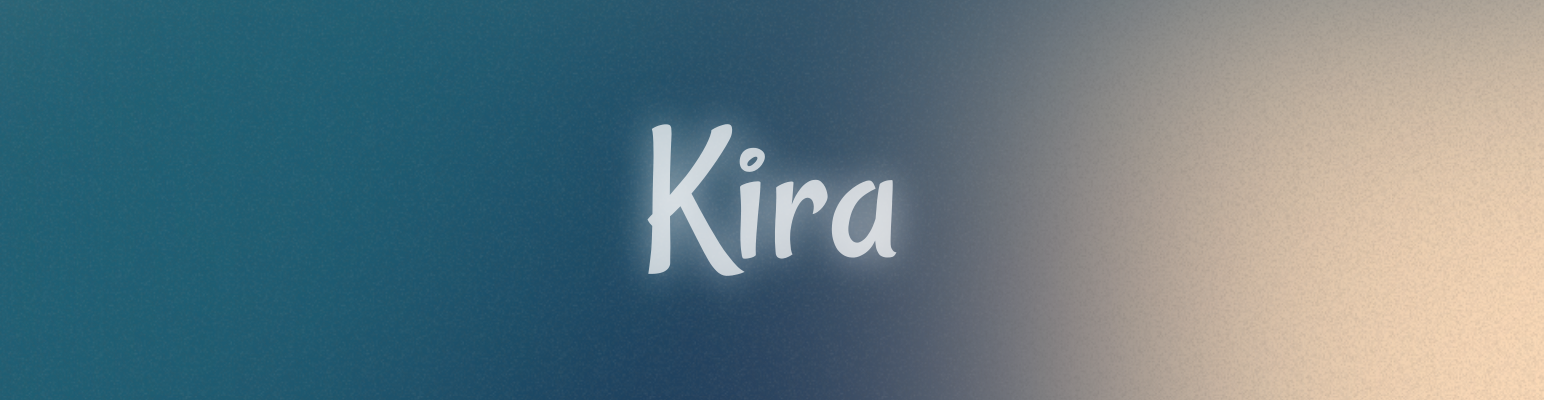
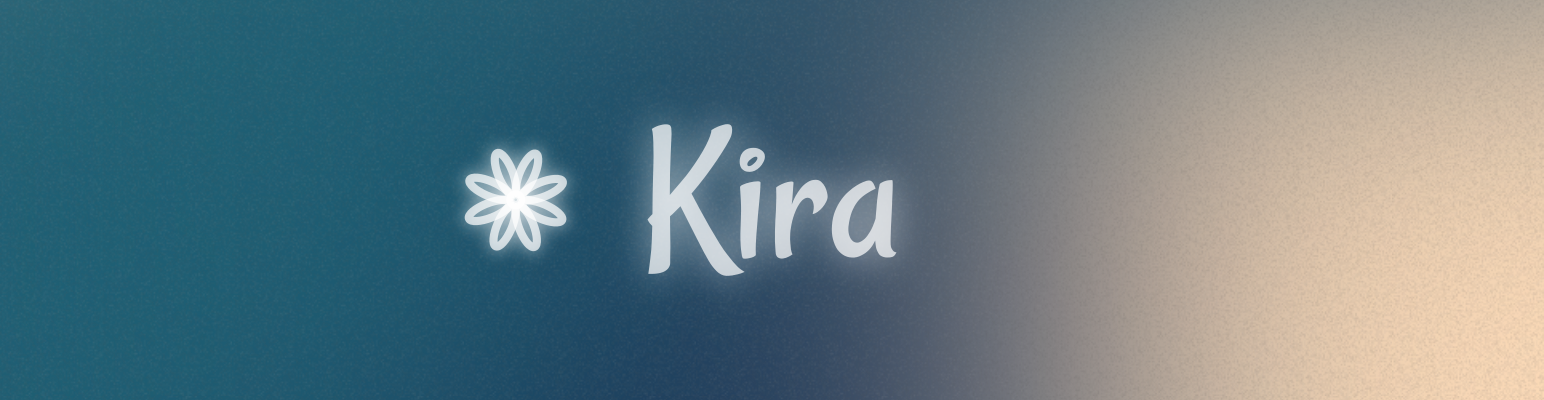
update the readme with more organized chores list and also a new header image for it as well :)

Changed region(s): [[0.2798, 0.36, 0.3731, 0.63]]

diff --git a/src/main/kotlin/net/exoad/kira/utils/XMLASTBuilder.kt b/src/main/kotlin/net/exoad/kira/utils/XMLASTBuilder.kt
@@ -1,0 +1,5 @@
+package net.exoad.kira.utils
+
+object XMLASTBuilder
+{
+}

diff --git a/README.md b/README.md
@@ -49,27 +49,30 @@ Check back later! More stuffs will come and go :)
 
 ## Chores
 
-### Frontend
+### Language Features
 
-Chores relating to anything to do with parsing, lexing, and static analysis.
+Chores relating to anything to do with the upfront semantics and syntax of the language
 
 - [ ] Parser evaluates escaped string characters
-- [ ] Interpolation in strings without using "+"
+
+- [ ] Interpolation in strings without using `+`
+
 - [ ] **In Triage** For Loop
+
+### Internal Workings
+
+Chores relating to anything that involves the internal workings
+
 - [ ] Static Analyzer for validating the state of the AST
+
 - [ ] Support for outputting the AST as an XML document so there is not a necessary usage of another parser to parse the
   formatting
 
-### Backend
-
-Chores relating to anything that takes a valid AST and transpiles it into another medium like machine code or bytecode.
-
 - [ ] **In Progress** Transpile to NekoVM Neko code with full support for all features
 
-### Misc.
+### General Maintenance
 
 General upkeep.
 
-- [ ] **In Progress** Enable more verbose logging that is currently toggleable through `--verbose`
-
+- [ ] **In Progress** Enable more verbose logging that is currently toggleable through --verbose
 
